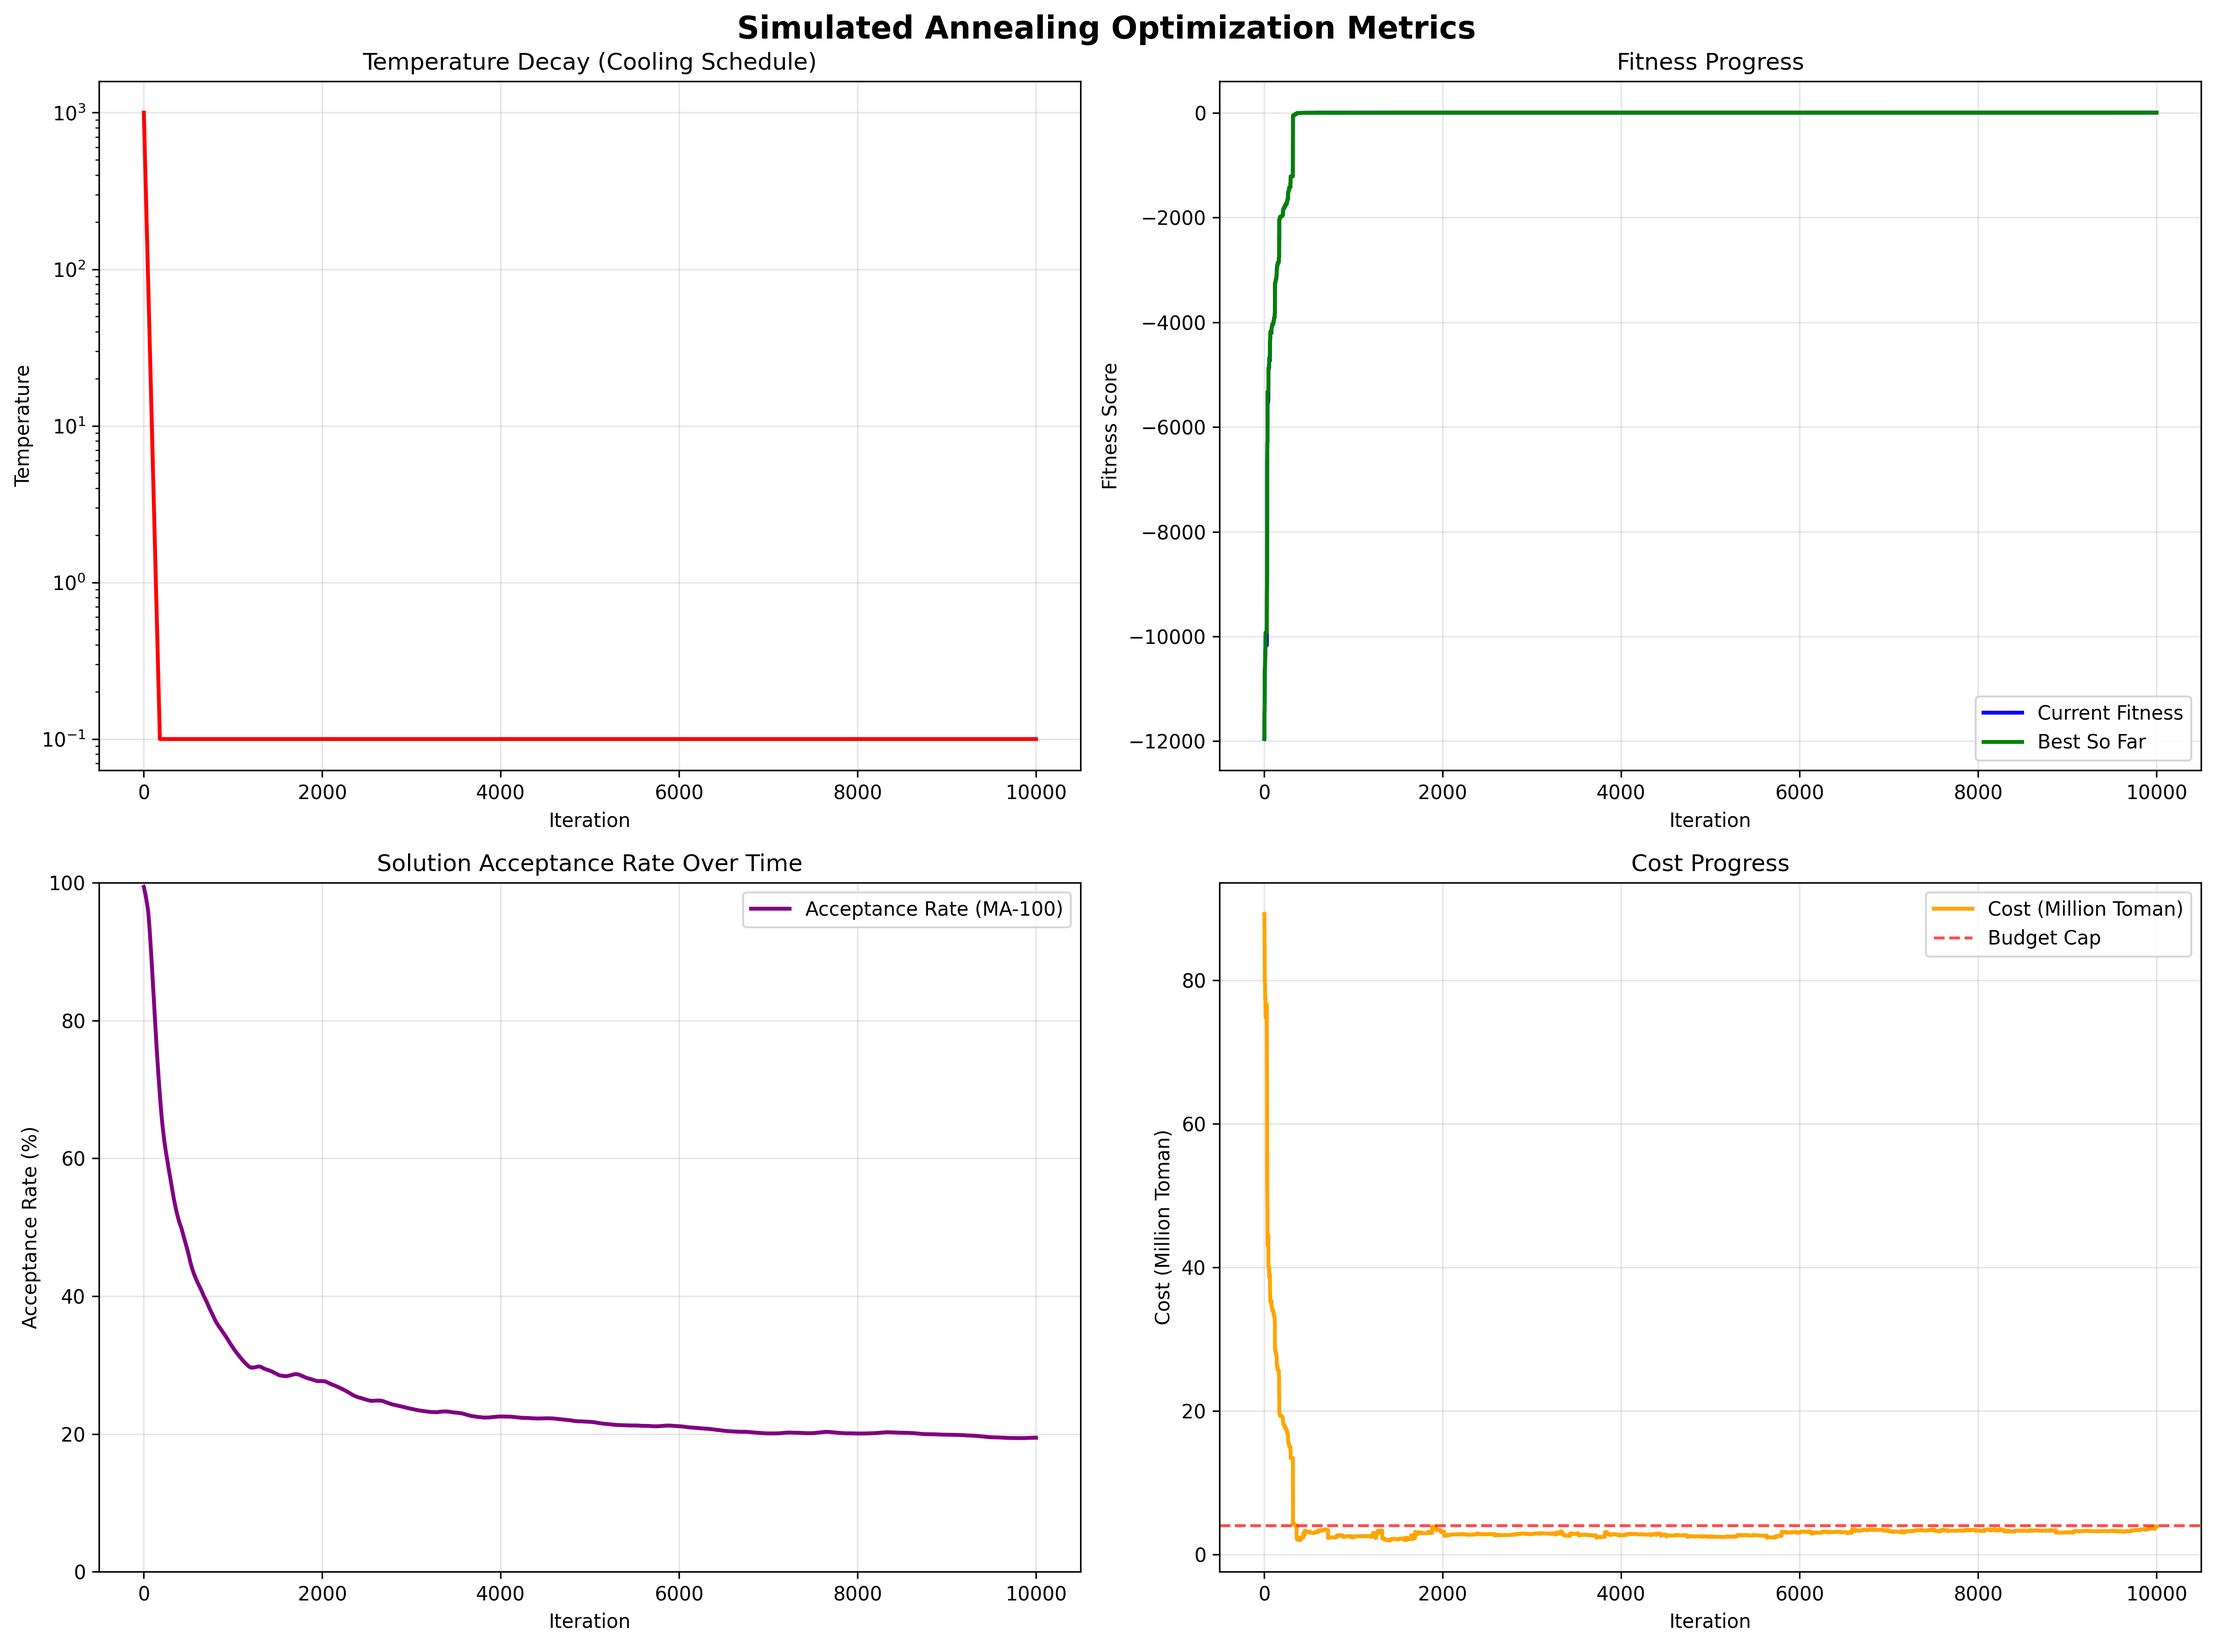
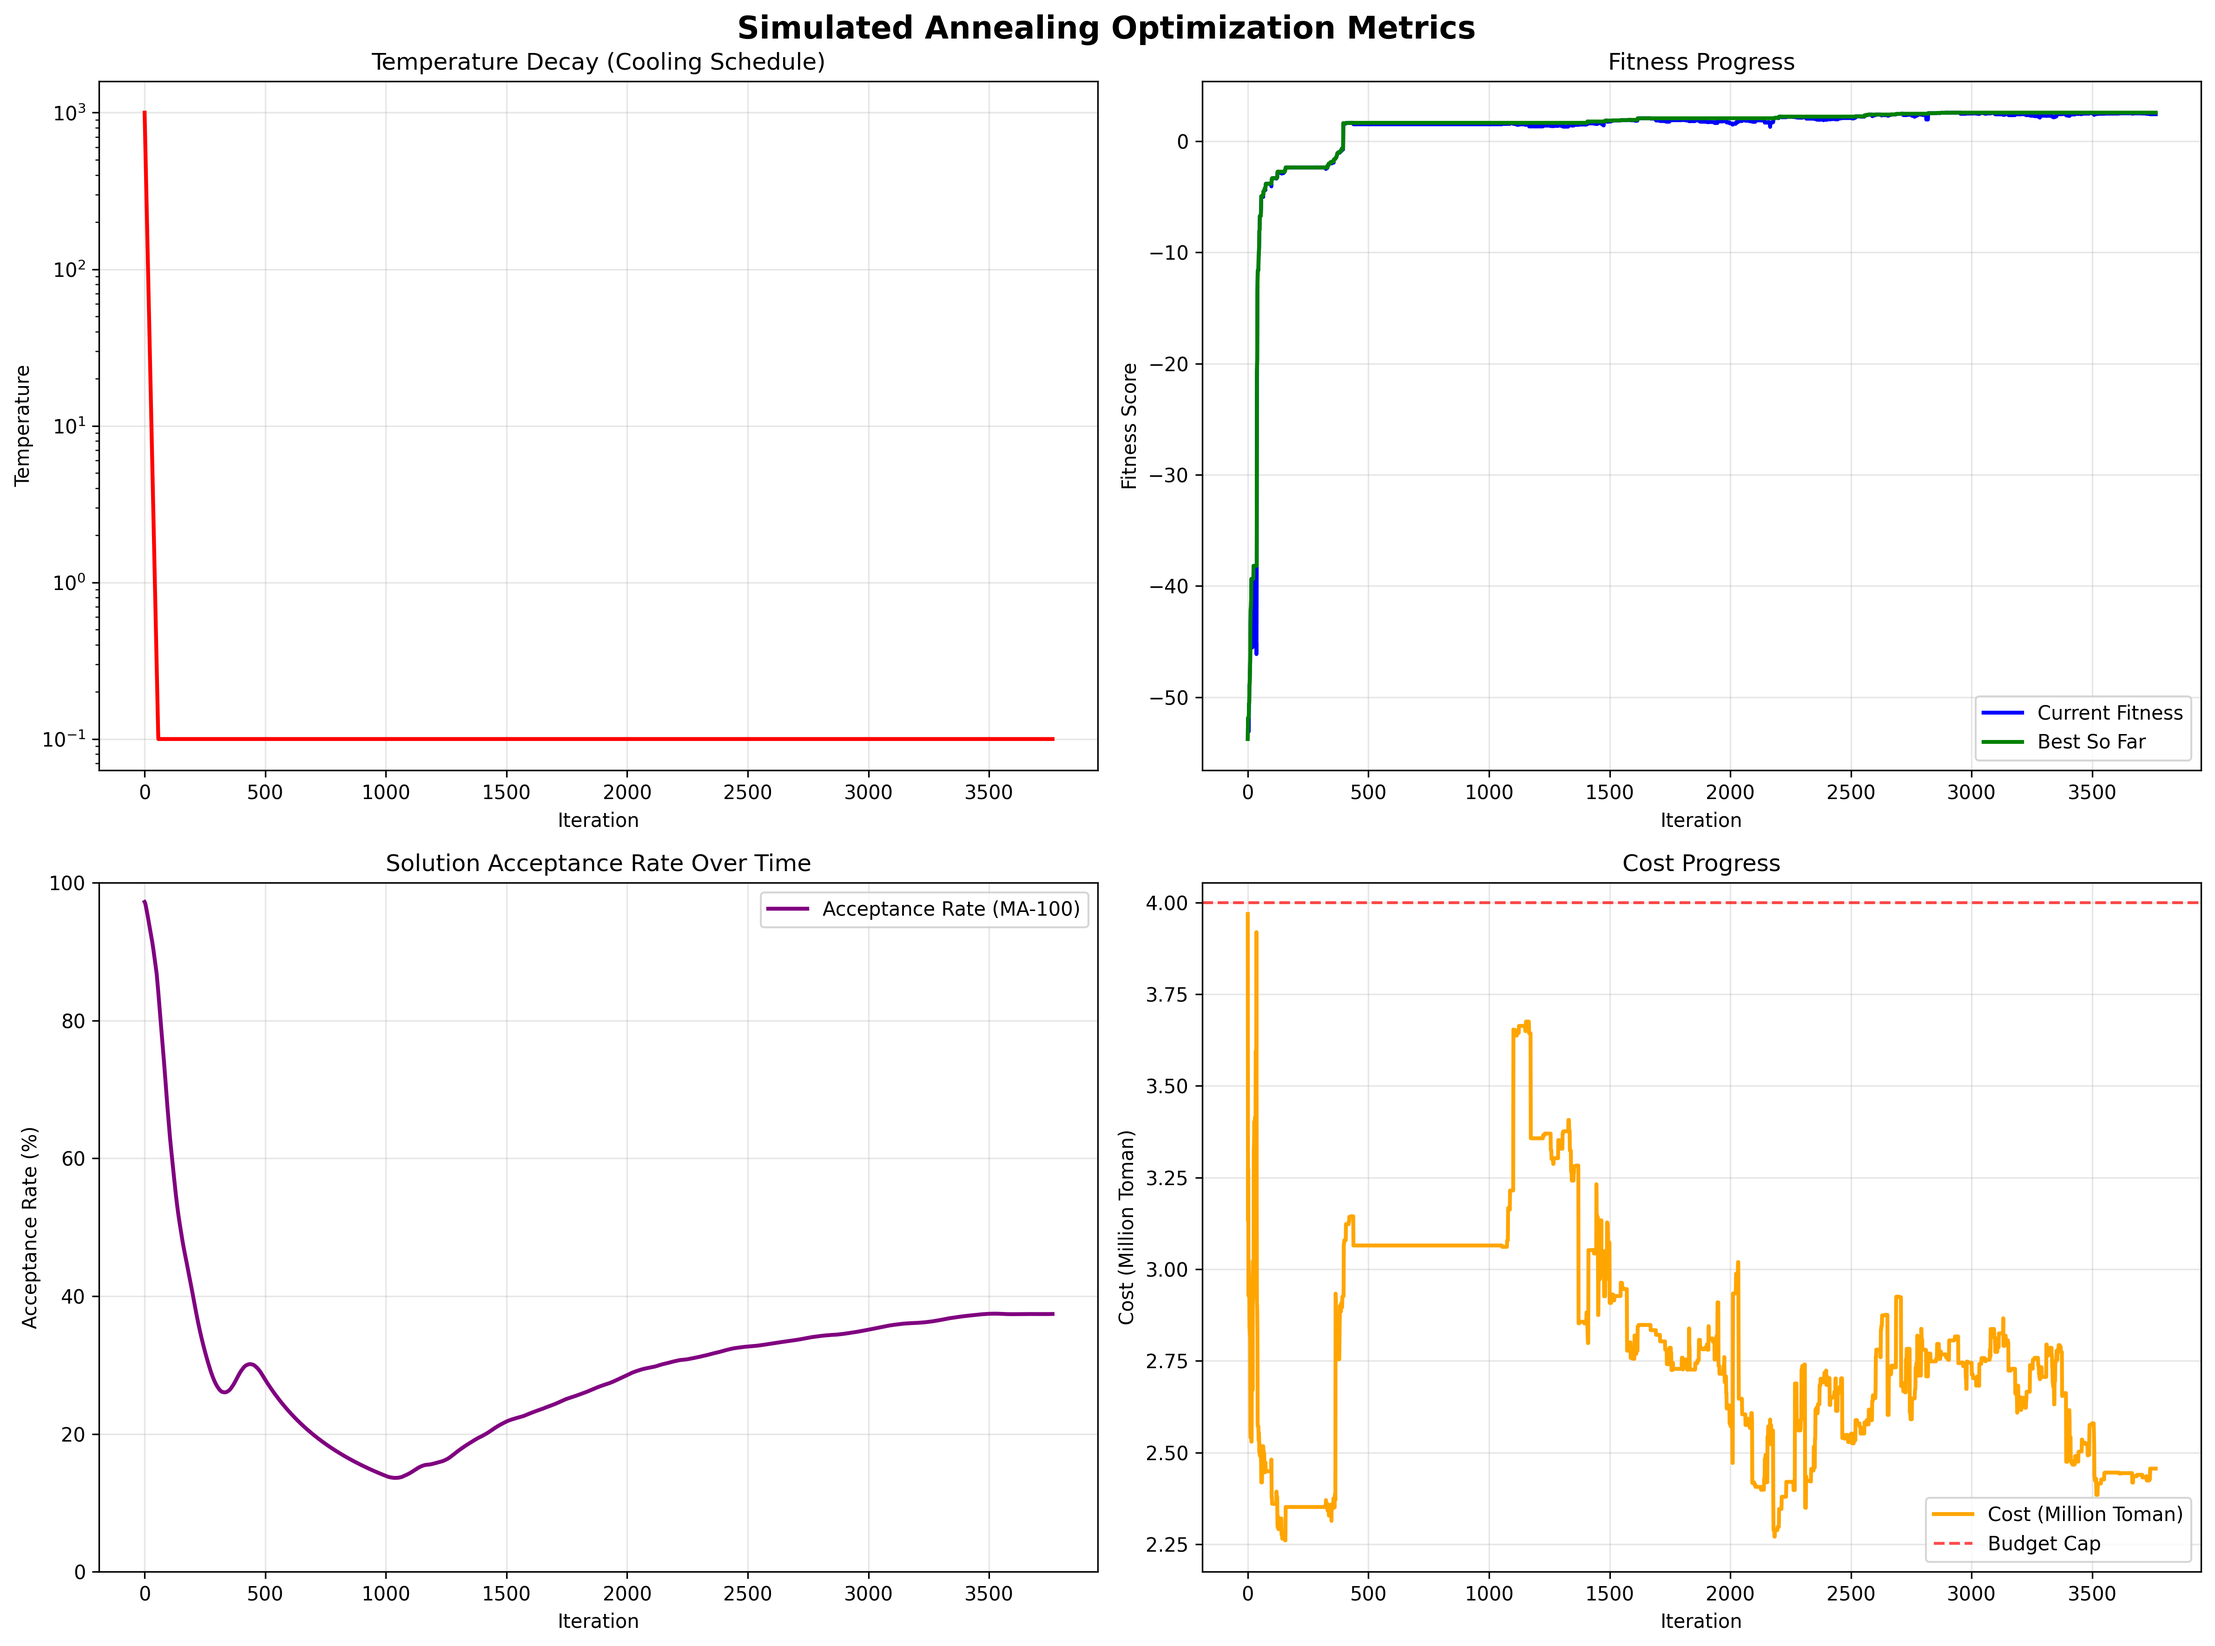
testing sa algorithm

diff --git a/main.py b/main.py
@@ -532,9 +532,9 @@ The program will ask you to choose which algorithm to use interactively.
                          help='Initial temperature for SA')
     sa_group.add_argument('--final-temp', type=float, default=0.1,
                          help='Final (minimum) temperature for SA')
-    sa_group.add_argument('--cooling', type=float, default=0.95,
+    sa_group.add_argument('--cooling', type=float, default=0.85,
                          help='Cooling rate for SA (0 < rate < 1)')
-    sa_group.add_argument('--step-size', type=float, default=2.0,
+    sa_group.add_argument('--step-size', type=float, default=1.0,
                          help='Maximum change in food quantity per perturbation (kg)')
     
     args = parser.parse_args()
